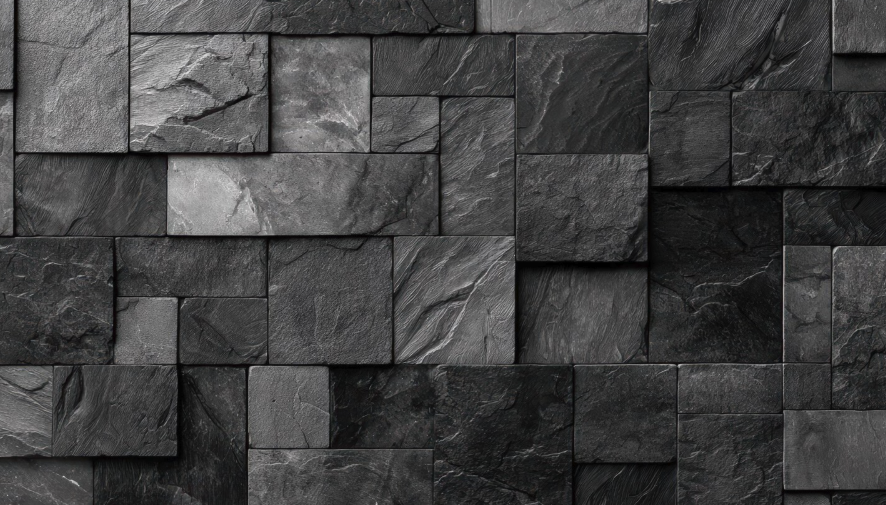
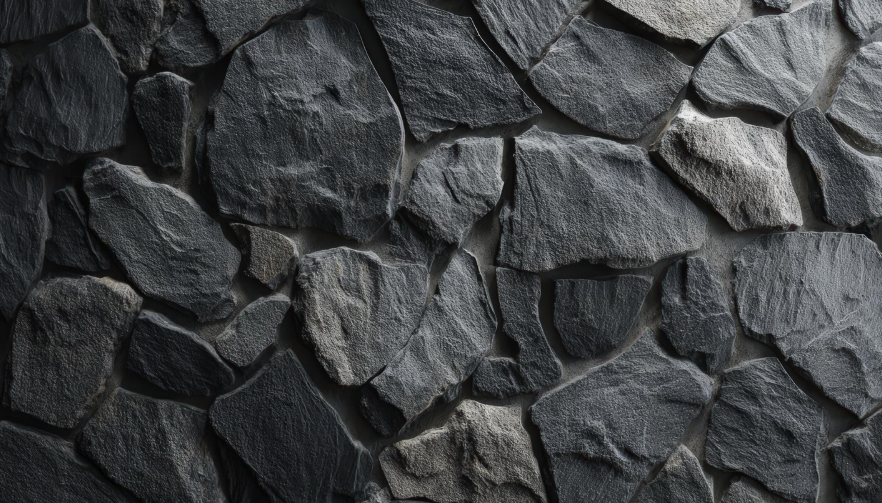
Drop standalone house painting, rework services grid, update photos and wording

diff --git a/index.html b/index.html
@@ -5,10 +5,10 @@
 <meta name="robots" content="noindex, nofollow"><!-- preview deploy: remove on the real domain -->
 <meta name="viewport" content="width=device-width, initial-scale=1.0">
 <title>DKM Group QLD — Rendering &amp; Painting Specialists in Brisbane</title>
-<meta name="description" content="Rendering, house painting, venetian plaster, microcement and natural stone across Brisbane. Family-run since 2006. Free on-site quote with a written scope and finish date.">
+<meta name="description" content="Rendering, venetian plaster, microcement, natural stone and full exterior renovations across Brisbane. Family owned and operated since 2006. Free on-site quote with a written scope and finish date.">
 <meta property="og:type" content="website">
 <meta property="og:title" content="DKM Group QLD — Rendering &amp; Painting Specialists">
-<meta property="og:description" content="Family-run in Brisbane since 2006. Proper preparation, premium materials and a finish date in writing.">
+<meta property="og:description" content="Family owned and operated in Brisbane since 2006. Proper preparation, premium materials and a finish date in writing.">
 <!-- <meta property="og:image" content="[OG IMAGE URL — 1200×630 photo of a finished façade]"> -->
[1 lines of base64/hex data omitted]
 <link rel="preload" as="image" href="assets/hero-facade.jpg">
@@ -268,8 +268,10 @@ a{ color:inherit; }
   display:grid; gap:0;
   border-top:1px solid var(--line);
 }
+/* Five services on a 6-column grid: two wide cards on top, three
+   below, so both rows run edge to edge with no empty cell.       */
 @media (min-width:660px) and (max-width:1039.98px){ .svcs{ grid-template-columns:repeat(2,1fr); } }
-@media (min-width:1040px){ .svcs{ grid-template-columns:repeat(3,1fr); } }
+@media (min-width:1040px){ .svcs{ grid-template-columns:repeat(6,1fr); } }
 .svc{
   display:flex; flex-direction:column;
   padding:30px 0 34px;
@@ -279,13 +281,17 @@ a{ color:inherit; }
   .svc{ padding:32px clamp(24px,2.4vw,38px) 36px; }
   .svc:nth-child(2n+1){ padding-left:0; }
   .svc:nth-child(2n){ border-left:1px solid var(--line); padding-right:0; }
+  .svc:last-child{ grid-column:span 2; padding-right:0; }
 }
 @media (min-width:1040px){
-  .svc{ padding:32px clamp(24px,2.2vw,34px) 36px; border-left:1px solid var(--line); }
-  .svc:nth-child(3n+1){ padding-left:0; border-left:0; }
-  .svc:nth-child(3n){ padding-right:0; }
+  .svc{ padding:32px clamp(24px,2.2vw,34px) 36px; border-left:1px solid var(--line); grid-column:span 2; }
+  .svc:nth-child(-n+2){ grid-column:span 3; }
+  .svc:nth-child(1),.svc:nth-child(3){ padding-left:0; border-left:0; }
+  .svc:nth-child(2),.svc:nth-child(5){ padding-right:0; }
+  .svc:nth-child(-n+2) p{ max-width:52ch; }
 }
 .svc .shot{ flex:none; height:clamp(185px,14.5vw,225px); margin-bottom:22px; }
+@media (min-width:1040px){ .svc:nth-child(-n+2) .shot{ height:clamp(245px,20vw,310px); } }
 /* Corner motif framing the photo, like a crop mark */
 .svc .shot::before{
   content:""; position:absolute; top:16px; left:16px; z-index:2;
@@ -574,7 +580,7 @@ a{ color:inherit; }
 <!-- ============ TOP TRUST BAR ============ -->
 <div class="topbar">
   <ul class="wrap">
-    <li>Family-run in Brisbane since 2006</li>
+    <li>Family owned and operated since 2006</li>
     <li class="topbar__tel">Call&nbsp;<a href="tel:+61405339346">0405 339 346</a></li>
     <li class="topbar__quote">Free on-site quote, no obligation</li>
   </ul>
@@ -601,7 +607,7 @@ a{ color:inherit; }
   <div class="hero__in">
     <p class="eyebrow eyebrow--inv rise">Brisbane &middot; Since 2006</p>
     <h1 class="d1 rise">Rendering and painting, done properly the first time.</h1>
-    <p class="lede rise">A family-run Brisbane team with twenty years on the tools. We prepare every job properly, use premium materials and put your finish date in writing&nbsp;— then we keep to it.</p>
+    <p class="lede rise">A family-owned Brisbane team with twenty years on the tools. We prepare every job properly, use premium materials and put your finish date in writing&nbsp;— then we keep to it.</p>
     <div class="btns rise">
       <a class="btn btn--light" href="#quote">Get a free quote</a>
       <a class="btn btn--ghost" href="#services">See our services</a>
@@ -612,7 +618,7 @@ a{ color:inherit; }
 <!-- ============ TRUST STRIP ============ -->
 <div class="strip">
   <ul class="wrap">
-    <li><b>Since 2006</b>Family-run, twenty years in Brisbane</li>
+    <li><b>Since 2006</b>Family owned and operated, twenty years in Brisbane</li>
     <li><b>Premium materials</b>Chosen on quality, not on price</li>
     <li><b>Finish date in writing</b>And a team that works to hold it</li>
     <li><b>Free on-site quote</b>Measured properly, no obligation</li>
@@ -630,15 +636,15 @@ a{ color:inherit; }
 
     <div class="svcs">
       <article class="svc">
-        <div class="shot"><img src="assets/render-application.jpg" alt="Render being applied to a high exterior wall from an elevated work platform"></div>
+        <div class="shot"><img src="assets/render-new-build.jpg" alt="Newly rendered home in Brisbane, with the scaffold still up"></div>
         <h3 class="d3">Rendering</h3>
         <p>Cement, acrylic and texture finishes on new builds, extensions and tired brickwork. Flat walls, consistent mix, sharp corners — no patchy sections and no hollow spots waiting to crack.</p>
       </article>
 
       <article class="svc">
-        <div class="shot"><img src="assets/house-painting.jpg" alt="Freshly painted Queenslander home in Brisbane" loading="lazy"></div>
-        <h3 class="d3">House painting</h3>
-        <p>Usually run straight off the back of a render, so the whole house is finished by one crew without a hand-over gap between trades.</p>
+        <div class="shot"><img src="assets/exterior-renovation.jpg" alt="Modern home with a rendered and painted exterior, finished" loading="lazy"></div>
+        <h3 class="d3">Full exterior renovation</h3>
+        <p>Render, house painting, stone and microcement packaged into a single run of work. One quote, one crew, one timeframe, and a house that looks like a different address at the end of it.</p>
       </article>
 
       <article class="svc">
@@ -659,11 +665,6 @@ a{ color:inherit; }
         <p>Stone cladding laid for owners and architects who have already chosen their stone. You supply the material you fell in love with; we supply the labour, the adhesive, the grouting and the patience.</p>
       </article>
 
-      <article class="svc">
-        <div class="shot"><img src="assets/exterior-renovation.jpg" alt="Modern home with a rendered and painted exterior, finished" loading="lazy"></div>
-        <h3 class="d3">Full exterior renovation</h3>
-        <p>Render, paint, stone and microcement packaged into a single run of work. One quote, one crew, one timeframe, and a house that looks like a different address at the end of it.</p>
-      </article>
     </div>
   </div>
 </section>
@@ -756,7 +757,7 @@ a{ color:inherit; }
       </figure>
       <figure class="review">
         <blockquote>[Client review — a review that mentions quality of finish or how the house looks now.]</blockquote>
-        <figcaption><b>[Client name]</b>[Suburb] &middot; House painting</figcaption>
+        <figcaption><b>[Client name]</b>[Suburb] &middot; Exterior renovation</figcaption>
       </figure>
       <figure class="review">
         <blockquote>[Client review — ideally from a builder or architect, mentioning reliability and timeframe.]</blockquote>
@@ -853,7 +854,6 @@ a{ color:inherit; }
                 <select id="service" name="service" required>
                   <option value="" selected disabled>Select a service</option>
                   <option>Rendering</option>
-                  <option>House painting</option>
                   <option>Venetian / polished plaster</option>
                   <option>Microcement</option>
                   <option>Natural stone</option>
@@ -906,13 +906,12 @@ a{ color:inherit; }
     <div class="foot__grid">
       <div>
         <a class="foot__logo" href="#top" aria-label="DKM Group QLD — back to top"><img src="assets/logo-dkm.png" alt="DKM Group QLD"></a>
-        <p class="foot__about">Family-run in Brisbane since 2006. Render, paint, stone and microcement, prepared properly and finished on time.</p>
+        <p class="foot__about">Family owned and operated in Brisbane since 2006. Render, paint, stone and microcement, prepared properly and finished on time.</p>
       </div>
       <div>
         <h4>Services</h4>
         <ul>
           <li><a href="#services">Rendering</a></li>
-          <li><a href="#services">House painting</a></li>
           <li><a href="#services">Venetian &amp; polished plaster</a></li>
           <li><a href="#services">Microcement</a></li>
           <li><a href="#services">Natural stone</a></li>
